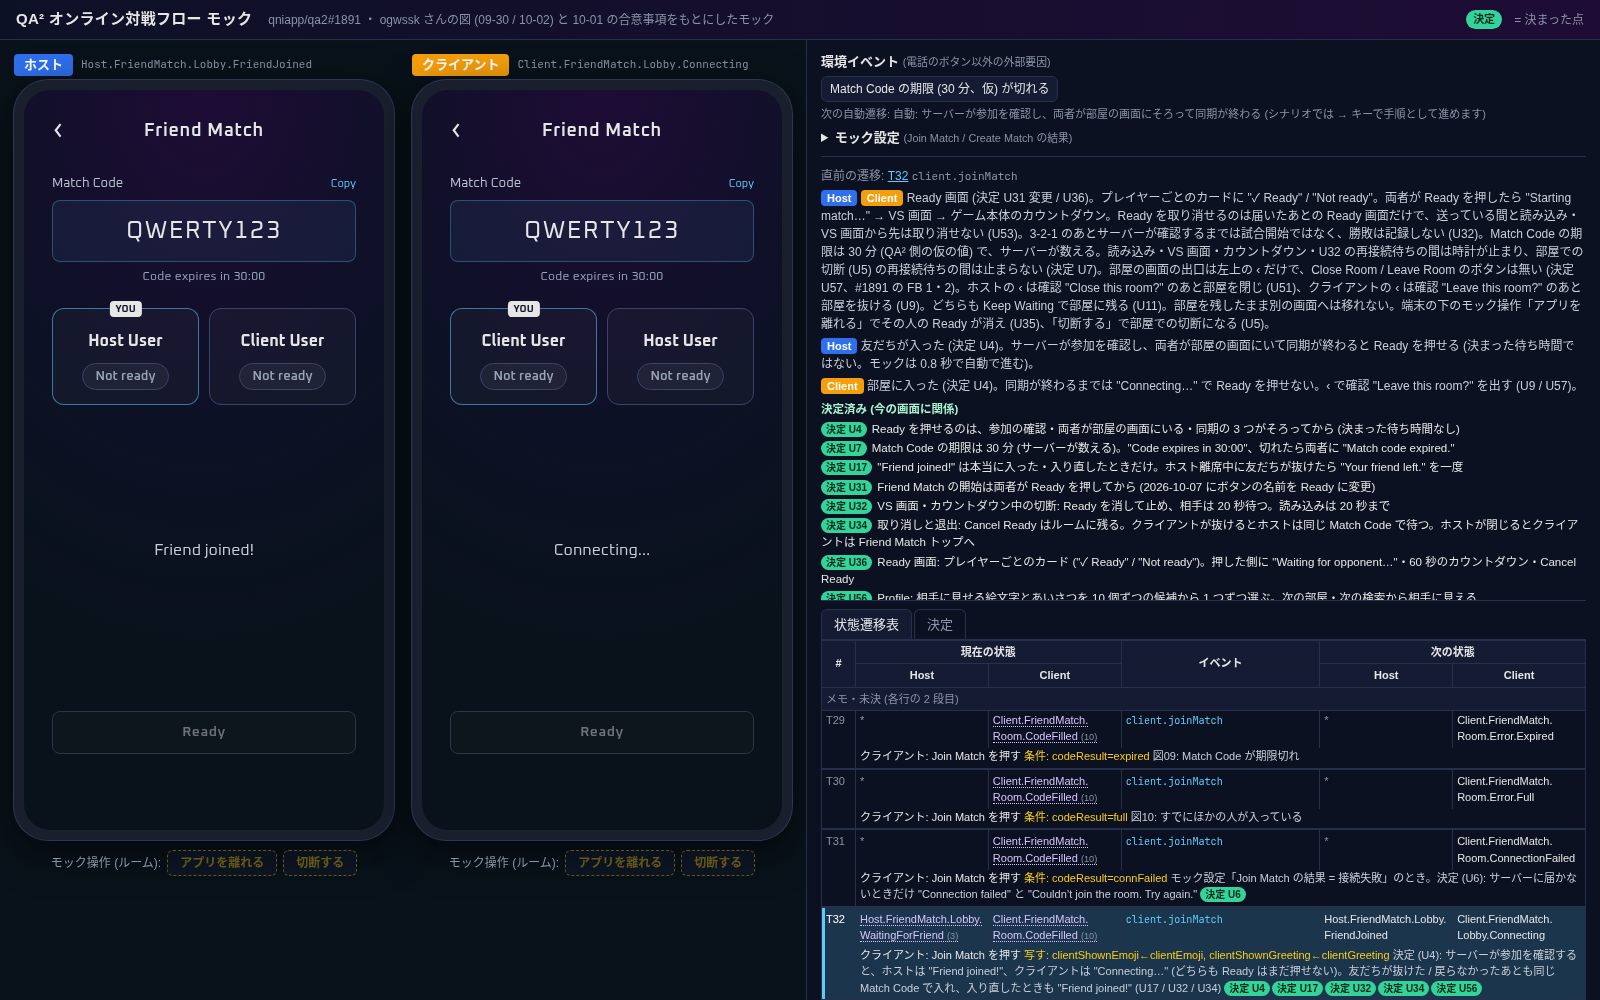
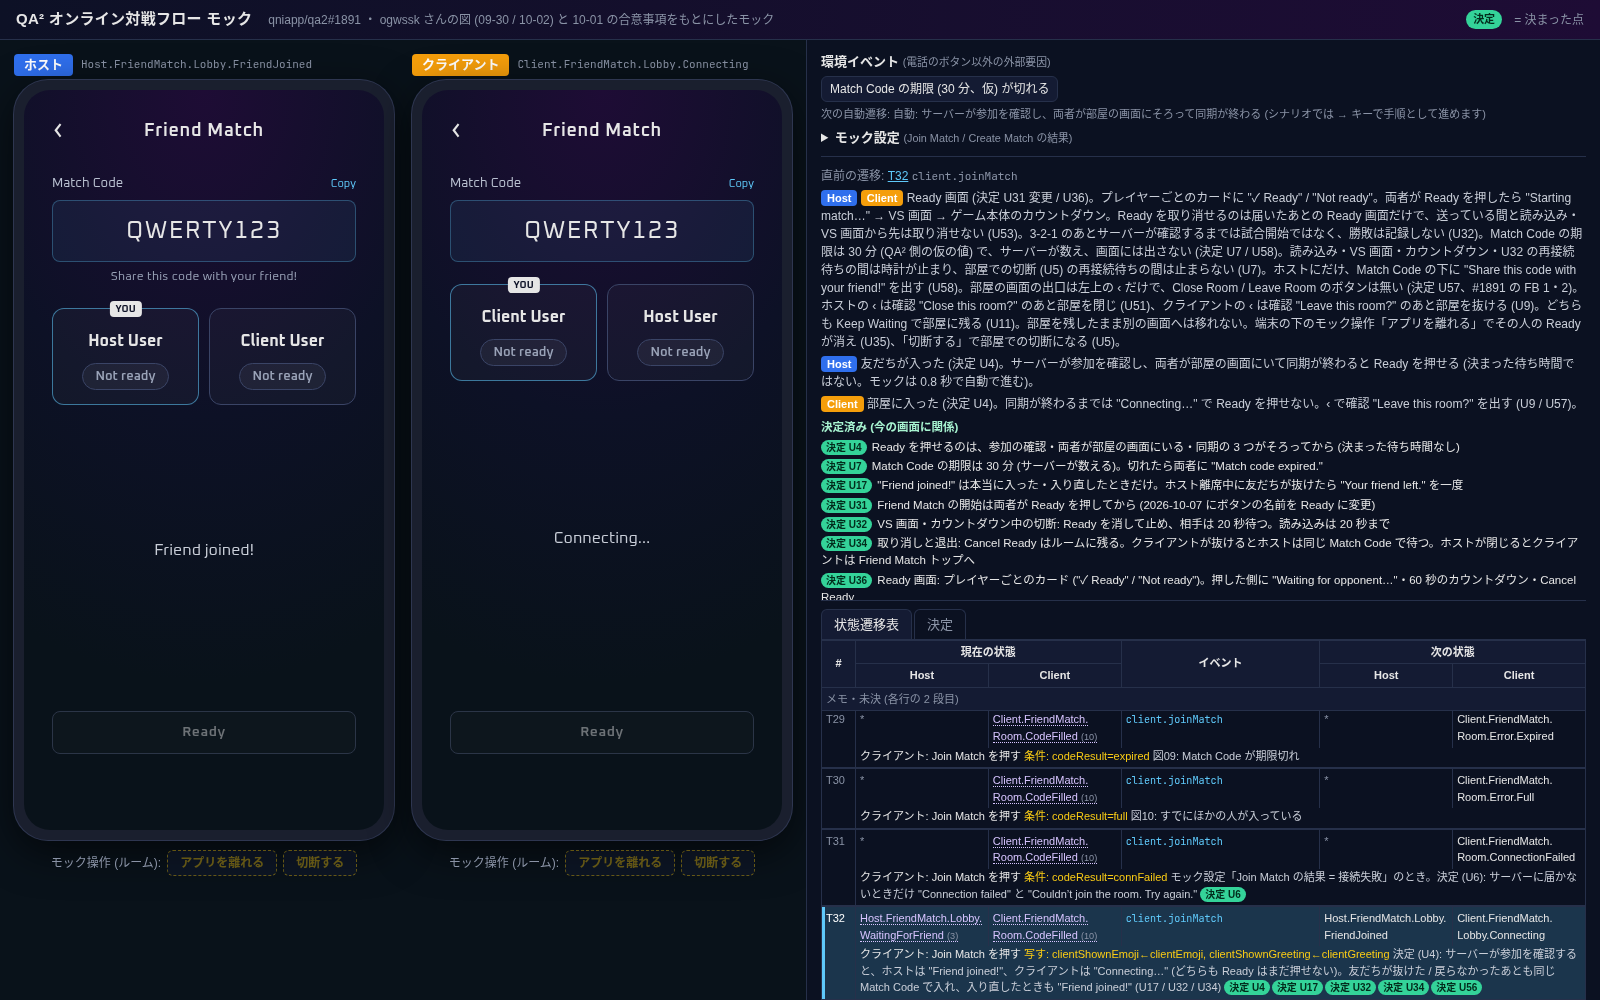
Show the host a share hint instead of the Match Code expiry
Reflect item 3 of YoshiyukiN's feedback in qniapp/qa2#1891 as decision
U58: the room screen no longer shows the Match Code expiry, and only the
host sees "Share this code with your friend!" under the Match Code.
The expiry itself (U7) is unchanged.

diff --git a/js/transitions.js b/js/transitions.js
@@ -272,7 +272,7 @@ var TRANSITIONS = (function () {
     to: { host: 'Host.FriendMatch.Room.ConnectionFailed', client: '*' },
     note: 'モック設定「Create Match の結果 = 接続失敗」のとき。決定 (U6): サーバーに届かないときだけ "Connection failed" と "Couldn\u2019t create a room. Try again."', decided: ['U6'] });
   T({ from: { host: hostTop, client: '*' }, event: 'host.createMatch', to: { host: 'Host.FriendMatch.Lobby.Waiting', client: '*' },
-    note: '図01: Match Code QWERTY123 が発行される。決定 (U7): 期限は 30 分 (仮)、"Code expires in 30:00"。部屋のお知らせは画面が変わるので消える (U52)', decided: ['U7', 'U52'] });
+    note: '図01: Match Code QWERTY123 が発行される。決定 (U7 / U58): 期限は 30 分 (仮) で画面には出さず、ホストに "Share this code with your friend!"。部屋のお知らせは画面が変わるので消える (U52)', decided: ['U7', 'U58', 'U52'] });
   T({ from: { host: 'Host.FriendMatch.Room.ConnectionFailed', client: '*' }, event: 'host.tapToast', to: { host: 'Host.FriendMatch.Room', client: '*' },
     note: '決定 (U6): トーストをタップして閉じる', decided: ['U6'] });
   T({ from: { host: hostNoticeTop, client: '*' }, event: 'host.closeNotice', to: { host: 'Host.FriendMatch.Room', client: '*' },
@@ -1162,8 +1162,8 @@ var ROOM_TEXT = {
   couldNotReconnect: 'Could not reconnect.',
   codeExpired: 'Match code expired.',
 };
-// Match Code の期限 (決定 U7)。30 分は QA² 側の仮の値で、サーバーが数える。モックは "30:00" のまま描く
-var CODE_EXPIRY = { minutes: 30, text: 'Code expires in 30:00' };
+// Match Code の下の一行 (決定 U58、#1891 の FB 3)。ホストにだけ出す。期限 (U7) は画面に出さない
+var CODE_HINT = 'Share this code with your friend!';
 var READY_NOTICE_TEXT = {
   TimedOut: 'Ready check timed out. Press Ready when you\u2019re ready.',
   OpponentNotReady: 'Opponent is no longer ready.',
@@ -1171,7 +1171,8 @@ var READY_NOTICE_TEXT = {
   SyncFailed: 'Couldn\u2019t start the match. Please ready up again.',
 };
 var READY_TIMERS = { ready: 60, reconnect: 20 }; // 秒。どちらも QA² 側の仮の値 (U33 / U5 / U32 / U46 / U54)
-var ROOM_RULES_CONTEXT = 'Match Code の期限は 30 分 (QA² 側の仮の値) で、サーバーが数える。読み込み・VS 画面・カウントダウン・U32 の再接続待ちの間は時計が止まり、部屋での切断 (U5) の再接続待ちの間は止まらない (決定 U7)。' +
+var ROOM_RULES_CONTEXT = 'Match Code の期限は 30 分 (QA² 側の仮の値) で、サーバーが数え、画面には出さない (決定 U7 / U58)。読み込み・VS 画面・カウントダウン・U32 の再接続待ちの間は時計が止まり、部屋での切断 (U5) の再接続待ちの間は止まらない (U7)。' +
+  'ホストにだけ、Match Code の下に "Share this code with your friend!" を出す (U58)。' +
   '部屋の画面の出口は左上の \u2039 だけで、Close Room / Leave Room のボタンは無い (決定 U57、#1891 の FB 1・2)。ホストの \u2039 は確認 "Close this room?" のあと部屋を閉じ (U51)、' +
   'クライアントの \u2039 は確認 "Leave this room?" のあと部屋を抜ける (U9)。どちらも Keep Waiting で部屋に残る (U11)。部屋を残したまま別の画面へは移れない。';
 var READY_CONTEXT = 'Ready 画面 (決定 U31 変更 / U36)。プレイヤーごとのカードに "\u2713 Ready" / "Not ready"。両者が Ready を押したら "Starting match\u2026" → VS 画面 → ゲーム本体のカウントダウン。' +
@@ -1206,7 +1207,7 @@ var READY_PHASE_CONTEXT = {
 };
 var ROOM_NOTICE_CONTEXT = '部屋のお知らせは画面の上の帯で、モーダルではない (決定 U52)。Close で閉じるまで残り、Match Code を入れても消えない。ほかの画面へ移る (‹・Create Match・Join Match の結果) と消える。';
 var ROOM_CONTEXT = {
-  Waiting: '部屋を作った (図01)。"Code expires in 30:00" は Match Code の期限 (決定 U7。30 分は QA² 側の仮の値で、モックは数えない)。' + ROOM_RULES_CONTEXT,
+  Waiting: '部屋を作った (図01)。Match Code の下に "Share this code with your friend!" (決定 U58。ホストにだけ出す)。Match Code の期限 (U7。30 分は QA² 側の仮の値) は画面に出さない。' + ROOM_RULES_CONTEXT,
   ClientLeft: '友だちが抜けた (決定 U34)。同じ Match Code のまま、次の友だちを待つ。図05 の "left the match." → 自動で待機に戻る流れを、この 1 画面にまとめた。',
   MatchCancelled: 'VS 画面・カウントダウン中に切断した友だちが 20 秒 (仮) のうちに戻らなかった (決定 U32)。結果は無く、同じ Match Code のまま部屋に残って次の友だちを待つ。',
   HostLeft: 'ホストが部屋を閉じた (決定 U34)。Friend Match トップに "Room closed. The host left."。前の Match Code は使えない。' + ROOM_NOTICE_CONTEXT,
@@ -1301,14 +1302,14 @@ var SCREENS = (function () {
     return { roomNotice: { text: ROOM_NOTICES[key], buttons: [{ label: 'Close', event: 'closeNotice' }] }, decided: decided,
       context: ROOM_CONTEXT[key === 'MatchCancelled' ? 'RoomMatchCancelled' : key] };
   }
-  // 部屋の画面。Match Code の下に期限 "Code expires in 30:00" (決定 U7)。期限が切れた画面では出さない
-  function lobby(extra) {
-    return Object.assign({ view: 'lobby', title: 'Friend Match', back: 'back', buttons: [], expiry: true }, extra);
+  // 部屋の画面。ホストにだけ Match Code の下に "Share this code with your friend!" (決定 U58)。期限が切れた画面と再接続できなかった画面では出さない
+  function lobby(R, extra) {
+    return Object.assign({ view: 'lobby', title: 'Friend Match', back: 'back', buttons: [], codeHint: R === 'Host' }, extra);
   }
   // Ready 画面: プレイヤーごとのカード (自分・相手の Ready)、状況の一行、カウントダウン (秒)、お知らせ、ボタン。
   // 部屋を出るボタンは無く、‹ で確認を出す (決定 U57。ホストは "Close this room?"、クライアントは "Leave this room?")
   function readyLobby(R, mine, theirs, phase, extra) {
-    var spec = lobby({ cards: { me: mine, them: theirs }, buttons: [B.ready], decided: ['U31', 'U36', 'U7', 'U57'],
+    var spec = lobby(R, { cards: { me: mine, them: theirs }, buttons: [B.ready], decided: ['U31', 'U36', 'U7', 'U57'].concat(R === 'Host' ? ['U58'] : []),
       context: [READY_CONTEXT].concat(READY_PHASE_CONTEXT[phase] || []) });
     return Object.assign(spec, extra, { decided: spec.decided.concat((extra && extra.decided) || []) });
   }
@@ -1337,7 +1338,7 @@ var SCREENS = (function () {
       decided: ['U5', 'U52'] });
     S[L('FriendDisconnected')] = readyLobby(R, false, false, 'FriendDisconnected', { status: ROOM_TEXT.friendDisconnected, timer: READY_TIMERS.reconnect, buttons: [],
       decided: ['U5', 'U34'] });
-    S[L('CouldNotReconnect')] = lobby({ status: ROOM_TEXT.couldNotReconnect, buttons: [B.retry], expiry: false, decided: ['U5', 'U57'],
+    S[L('CouldNotReconnect')] = lobby(R, { status: ROOM_TEXT.couldNotReconnect, buttons: [B.retry], codeHint: false, decided: ['U5', 'U57'],
       context: [READY_PHASE_CONTEXT.CouldNotReconnect] });
     // VS 画面・カウントダウン中の切断 (決定 U32)。切れた側は "Connection lost. Reconnecting…" と残りの秒数 (U52)
     S[L('Reconnecting')] = readyLobby(R, false, false, 'Reconnecting', { status: ROOM_TEXT.connectionLost, timer: READY_TIMERS.reconnect, back: 'disabled', buttons: [],
@@ -1345,7 +1346,7 @@ var SCREENS = (function () {
     S[L('OpponentDisconnected')] = readyLobby(R, false, false, 'OpponentDisconnected', { status: READY_TEXT.opponentDisconnected, timer: READY_TIMERS.reconnect,
       buttons: [], decided: ['U32', 'U34'] });
     // 期限切れ (決定 U7 / U10 / U18): Ready は出さず、ホストは Create Match、クライアントは Join Match
-    S[L('CodeExpired')] = lobby({ status: ROOM_TEXT.codeExpired, expiry: false, buttons: [R === 'Host' ? B.createMatch : B.joinMatch],
+    S[L('CodeExpired')] = lobby(R, { status: ROOM_TEXT.codeExpired, codeHint: false, buttons: [R === 'Host' ? B.createMatch : B.joinMatch],
       decided: ['U7', 'U10'].concat(R === 'Client' ? ['U18'] : []), context: ROOM_CONTEXT.CodeExpired });
   }
   var errMsg = {
@@ -1360,12 +1361,12 @@ var SCREENS = (function () {
   S['Host.FriendMatch.Room.ConnectionFailed'] = top({ toast: 'failedCreate', decided: ['U6'], context: ROOM_CONTEXT.ConnectionFailed });
   S['Host.FriendMatch.Room.ReconnectFailed'] = top(roomNotice('ReconnectFailed', ['U52', 'U32', 'U54']));
   S['Host.FriendMatch.Room.MatchCancelled'] = top(roomNotice('MatchCancelled', ['U54', 'U52']));
-  S['Host.FriendMatch.Lobby.Waiting'] = lobby({ status: ROOM_TEXT.waiting, decided: ['U7', 'U57'], context: ROOM_CONTEXT.Waiting });
+  S['Host.FriendMatch.Lobby.Waiting'] = lobby('Host', { status: ROOM_TEXT.waiting, decided: ['U7', 'U57', 'U58'], context: ROOM_CONTEXT.Waiting });
   readyScreens('Host');
-  S['Host.FriendMatch.Lobby.ClientLeft'] = lobby({ status: 'Your friend left.\nWaiting for another friend\u2026',
-    decided: ['U34', 'U7', 'U57'], context: ROOM_CONTEXT.ClientLeft });
-  S['Host.FriendMatch.Lobby.MatchCancelled'] = lobby({ status: 'Match cancelled.\nOpponent did not reconnect.',
-    decided: ['U32', 'U7', 'U57'], context: ROOM_CONTEXT.MatchCancelled });
+  S['Host.FriendMatch.Lobby.ClientLeft'] = lobby('Host', { status: 'Your friend left.\nWaiting for another friend\u2026',
+    decided: ['U34', 'U7', 'U57', 'U58'], context: ROOM_CONTEXT.ClientLeft });
+  S['Host.FriendMatch.Lobby.MatchCancelled'] = lobby('Host', { status: 'Match cancelled.\nOpponent did not reconnect.',
+    decided: ['U32', 'U7', 'U57', 'U58'], context: ROOM_CONTEXT.MatchCancelled });
   S['Host.Matchmake'] = matchmake();
   S['Host.Matchmake.Stopped'] = inlineSearchNotice(SEARCH_NOTICES.stopped, { context: SEARCH_STOPPED_CONTEXT });
   S['Host.Matchmake.MatchCancelled'] = inlineSearchNotice(SEARCH_NOTICES.matchCancelled, { decided: ['U54', 'U43'], context: START_CANCELLED_CONTEXT.MatchCancelled });
@@ -1526,8 +1527,8 @@ var UNDECIDED = [
     desc: '"Connection failed" のトーストは、Create Match / Join Match がサーバーに届かないときだけ出す。文言はホストが "Couldn’t create a room. Try again."、クライアントが "Couldn’t join the room. Try again."。' +
       'Match Code の誤り・期限切れ・満員・閉じた部屋の赤字 (図08〜10 など) とは別。モックでは「モック設定」の Create Match / Join Match の結果を「接続失敗」にすると出る。',
     decided: { by: '高宮さん', date: '2026-10-07' } },
-  { id: 'U7', title: 'Match Code の期限は 30 分 (サーバーが数える)。"Code expires in 30:00"、切れたら両者に "Match code expired."',
-    desc: 'Match Code の期限は 30 分で、サーバーが数える。部屋の画面の Match Code の下に "Code expires in 30:00" を出す (モックは数えずに 30:00 のまま)。' +
+  { id: 'U7', title: 'Match Code の期限は 30 分 (サーバーが数える)。切れたら両者に "Match code expired."',
+    desc: 'Match Code の期限は 30 分で、サーバーが数える。部屋の画面の Match Code の下には残り時間を出していたが、2026-10-10 の U58 で出さなくなった (ホストにだけ "Share this code with your friend!")。' +
       '開始の読み込み・VS 画面・カウントダウンと、U32 の再接続待ちの間は時計が止まる (その分は減らない)。切れたら両者に "Match code expired." (以前のクライアント側の "Match expired." とトーストの "Match code expired" をそろえた)。' +
       '30 分は QA² 側の仮の値 (変わりうる)。',
     decided: { by: '高宮さん', date: '2026-10-07' } },
@@ -1790,4 +1791,10 @@ var UNDECIDED = [
       'ホストが閉じると、相手 (クライアント) は "Room closed. The host left." で Friend Match トップへ (U34)。"Could not reconnect." の画面も Retry と ‹ だけ。' +
       '部屋を作ったまま他のモードを遊べるのは便利だが、バグの原因になり今は仕様として重いので、部屋を残したまま別の画面へ移ることはできない (以前の U14 の離席と帯 (U1 / U16 / U19 / U55)、U12 の確認は無くなった)。',
     decided: { by: 'YoshiyukiN さんの FB (#1891、1・2 番目)', date: '2026-10-09' } },
+  { id: 'U58', title: 'Match Code の期限は画面に出さない。ホストにだけ "Share this code with your friend!"',
+    desc: '#1891 の YoshiyukiN さんの FB の 3 番目。部屋の画面の Match Code の下の期限の表示は固い表現なので出さない。' +
+      '代わりにホストにだけ、Match Code を友だちに伝えることを示す一行 "Share this code with your friend!" を出す (クライアントには出さない)。' +
+      '出すのは以前に期限を出していた部屋の画面 (友だちを待っている間・Ready 画面・切断待ちなど) で、期限切れと "Could not reconnect." の画面には出さない。' +
+      '期限そのもの (30 分、切れたら "Match code expired.") は U7 のまま。',
+    decided: { by: 'YoshiyukiN さんの FB (#1891、3 番目)', date: '2026-10-10' } },
 ];

diff --git a/tests/check.js b/tests/check.js
@@ -280,16 +280,16 @@ for (const R of ['Host', 'Client']) {
     if (!s || !s.cards) { fail(`${L(R, k)} が Ready 画面 (カード付き) でない`); continue; }
     const got = [s.cards.me, s.cards.them, s.status || null, s.timer || null, btns(s), s.back];
     if (JSON.stringify(got) !== JSON.stringify(want)) fail(`${L(R, k)} の表示 ${JSON.stringify(got)} (期待: ${JSON.stringify(want)})`);
-    if (!s.expiry) fail(`${L(R, k)} に "Code expires in 30:00" が無い (U7)`);
+    if (s.codeHint !== (R === 'Host')) fail(`${L(R, k)} の "${ctx.CODE_HINT}" が ${s.codeHint ? 'ある' : '無い'} (U58: ホストにだけ出す)`);
   }
   const cnr = SCREENS[L(R, 'CouldNotReconnect')];
-  if (!cnr || cnr.status !== 'Could not reconnect.' || btns(cnr) !== 'Retry' || cnr.back !== 'back' || cnr.cards) fail(`${L(R, 'CouldNotReconnect')} が "Could not reconnect." と Retry / ‹ でない (U5 / U57)`);
+  if (!cnr || cnr.status !== 'Could not reconnect.' || btns(cnr) !== 'Retry' || cnr.back !== 'back' || cnr.codeHint || cnr.cards) fail(`${L(R, 'CouldNotReconnect')} が "Could not reconnect." と Retry / ‹ でない (U5 / U57)`);
   const exp = SCREENS[L(R, 'CodeExpired')];
-  if (!exp || exp.status !== 'Match code expired.' || btns(exp) !== (R === 'Host' ? 'Create Match' : 'Join Match') || exp.expiry || exp.cards) fail(`${L(R, 'CodeExpired')} が "Match code expired." と ${R === 'Host' ? 'Create Match' : 'Join Match'} だけでない (U7 / U10)`);
+  if (!exp || exp.status !== 'Match code expired.' || btns(exp) !== (R === 'Host' ? 'Create Match' : 'Join Match') || exp.codeHint || exp.cards) fail(`${L(R, 'CodeExpired')} が "Match code expired." と ${R === 'Host' ? 'Create Match' : 'Join Match'} だけでない (U7 / U10)`);
 }
 for (const k of ['Waiting', 'ClientLeft', 'MatchCancelled']) {
   const s = SCREENS[L('Host', k)];
-  if (btns(s) !== '' || s.back !== 'back' || !s.expiry) fail(`${L('Host', k)} にボタンがあるか、‹ か期限の表示が無い (U57 / U7)`);
+  if (btns(s) !== '' || s.back !== 'back' || !s.codeHint) fail(`${L('Host', k)} にボタンがあるか、‹ か "${ctx.CODE_HINT}" が無い (U57 / U58)`);
 }
 // U57: どの画面にも Close Room / Leave Room のボタンは無い (確認ダイアログのボタンにだけある)
 for (const [name, s] of Object.entries(SCREENS)) {
@@ -297,7 +297,15 @@ for (const [name, s] of Object.entries(SCREENS)) {
   if (labels.some((l) => /^(Close|Leave) Room$/.test(l))) fail(`${name} に ${labels.join(' / ')} のボタンがある (U57: 出口は ‹ だけ)`);
 }
 if (!/\\u2713 Ready/.test(appJs) || !/Not ready/.test(appJs) || !/rd-card/.test(appJs) || !/rd-timer/.test(appJs)) fail('app.js に Ready 画面のカード ("✓ Ready" / "Not ready") とカウントダウンの描画が無い');
-if (!/CODE_EXPIRY\.text/.test(appJs) || ctx.CODE_EXPIRY.text !== 'Code expires in 30:00' || ctx.CODE_EXPIRY.minutes !== 30) fail('部屋の画面に "Code expires in 30:00" (U7) が無い');
+// U58: Match Code の期限は画面に出さず、ホストにだけ "Share this code with your friend!"。クライアントの画面には出さない
+if (!/CODE_HINT/.test(appJs) || ctx.CODE_HINT !== 'Share this code with your friend!') fail('部屋の画面に "Share this code with your friend!" (U58) が無い');
+if ('CODE_EXPIRY' in ctx || /expires in/i.test(appJs) || Object.values(SCREENS).some((s) => 'expiry' in s)) fail('部屋の画面に Match Code の期限の表示が残っている (U58)');
+for (const [name, s] of Object.entries(SCREENS)) if (s.codeHint && !name.startsWith('Host.FriendMatch.Lobby.')) fail(`${name} に "${ctx.CODE_HINT}" がある (U58: ホストの部屋の画面だけ)`);
+{
+  const u58 = UNDECIDED.find((u) => u.id === 'U58');
+  if (!u58 || !u58.decided || !/YoshiyukiN/.test(u58.decided.by) || u58.decided.date !== '2026-10-10' || !/#1891/.test(u58.desc)) fail('U58 が #1891 の YoshiyukiN さんの FB (2026-10-10) の決定になっていない');
+  if (!/U58/.test(UNDECIDED.find((u) => u.id === 'U7').desc)) fail('U7 の説明に、U58 で変わったことが無い');
+}
 const dlgWant = {
   leaveRoom: ['Leave this room?', 'No match has started. No win or loss will be recorded.', 'Leave Room / Keep Waiting'],
   closeRoom: ['Close this room?', 'No match has started. No win or loss will be recorded.', 'Close Room / Keep Waiting'],
@@ -310,6 +318,7 @@ for (const [k, want] of Object.entries(dlgWant)) {
 if (Object.keys(DIALOGS).join() !== 'closeRoom,leaveRoom') fail(`使わないダイアログが残っている (${Object.keys(DIALOGS)})`);
 if ('ROOM_SWITCH_BODY' in ctx) fail('U12 の作り直しの確認の本文が残っている (U57 で無くなった)');
 console.log('ok  U31 / U33〜U36 / U4 / U9 / U11 / U57: Ready (Confirming → Waiting for opponent / Opponent is ready)、Cancel Ready、アプリを離れる、60 秒のタイムアウト、‹ の確認 (Close this room? / Leave this room?) (両端末)');
+console.log('ok  U58: 部屋の画面に Match Code の期限を出さず、ホストにだけ "Share this code with your friend!" (クライアント・期限切れ・Could not reconnect. には無い)');
 
 // 決定 (U4): Ready を押せるのは参加の確認・両者が部屋の画面・同期の 3 つがそろってから。決まった待ち時間は置かない
 {

diff --git a/css/style.css b/css/style.css
@@ -194,8 +194,8 @@ code { font-family: ui-monospace, 'JetBrains Mono', Menlo, monospace; font-size:
   text-align: center; padding: 12px 0; border-radius: 8px; font-size: 24px; letter-spacing: 0.08em;
   background: rgba(95, 201, 250, 0.07); border: 1px solid rgba(95, 201, 250, 0.3);
 }
-/* Match Code の期限 (決定 U7)。モックは "30:00" のまま描く */
-.code-expiry { margin-top: 6px; text-align: center; font-size: 12px; color: #9AA3B8; letter-spacing: 0.02em; }
+/* Match Code の下のホストだけの一行 (決定 U58) */
+.code-hint { margin-top: 6px; text-align: center; font-size: 12px; color: #9AA3B8; letter-spacing: 0.02em; }
 .status-block { flex: 1; display: flex; flex-direction: column; justify-content: center; align-items: center; text-align: center; padding-bottom: 40px; }
 .peer { font-size: 22px; font-weight: 700; margin-bottom: 10px; }
 .status { font-size: 16px; color: #C9CED8; line-height: 1.5; }

diff --git a/js/app.js b/js/app.js
@@ -252,7 +252,7 @@
         '<div class="body">' +
         '<div class="code-head"><span>Match Code</span><span class="copy">Copy</span></div>' +
         '<div class="code">' + MATCH_CODE + '</div>' +
-        (s.expiry ? '<div class="code-expiry">' + esc(CODE_EXPIRY.text) + '</div>' : '') +
+        (s.codeHint ? '<div class="code-hint">' + esc(CODE_HINT) + '</div>' : '') +
         (s.cards ? readyHtml(dev, s) : '<div class="status-block">' +
           (s.name ? '<div class="peer">' + esc(s.name) + '</div>' : '') +
           '<div class="status' + (s.name ? '' : ' solo') + '">' + esc(s.status).replace(/\n/g, '<br>') + '</div></div>') +
